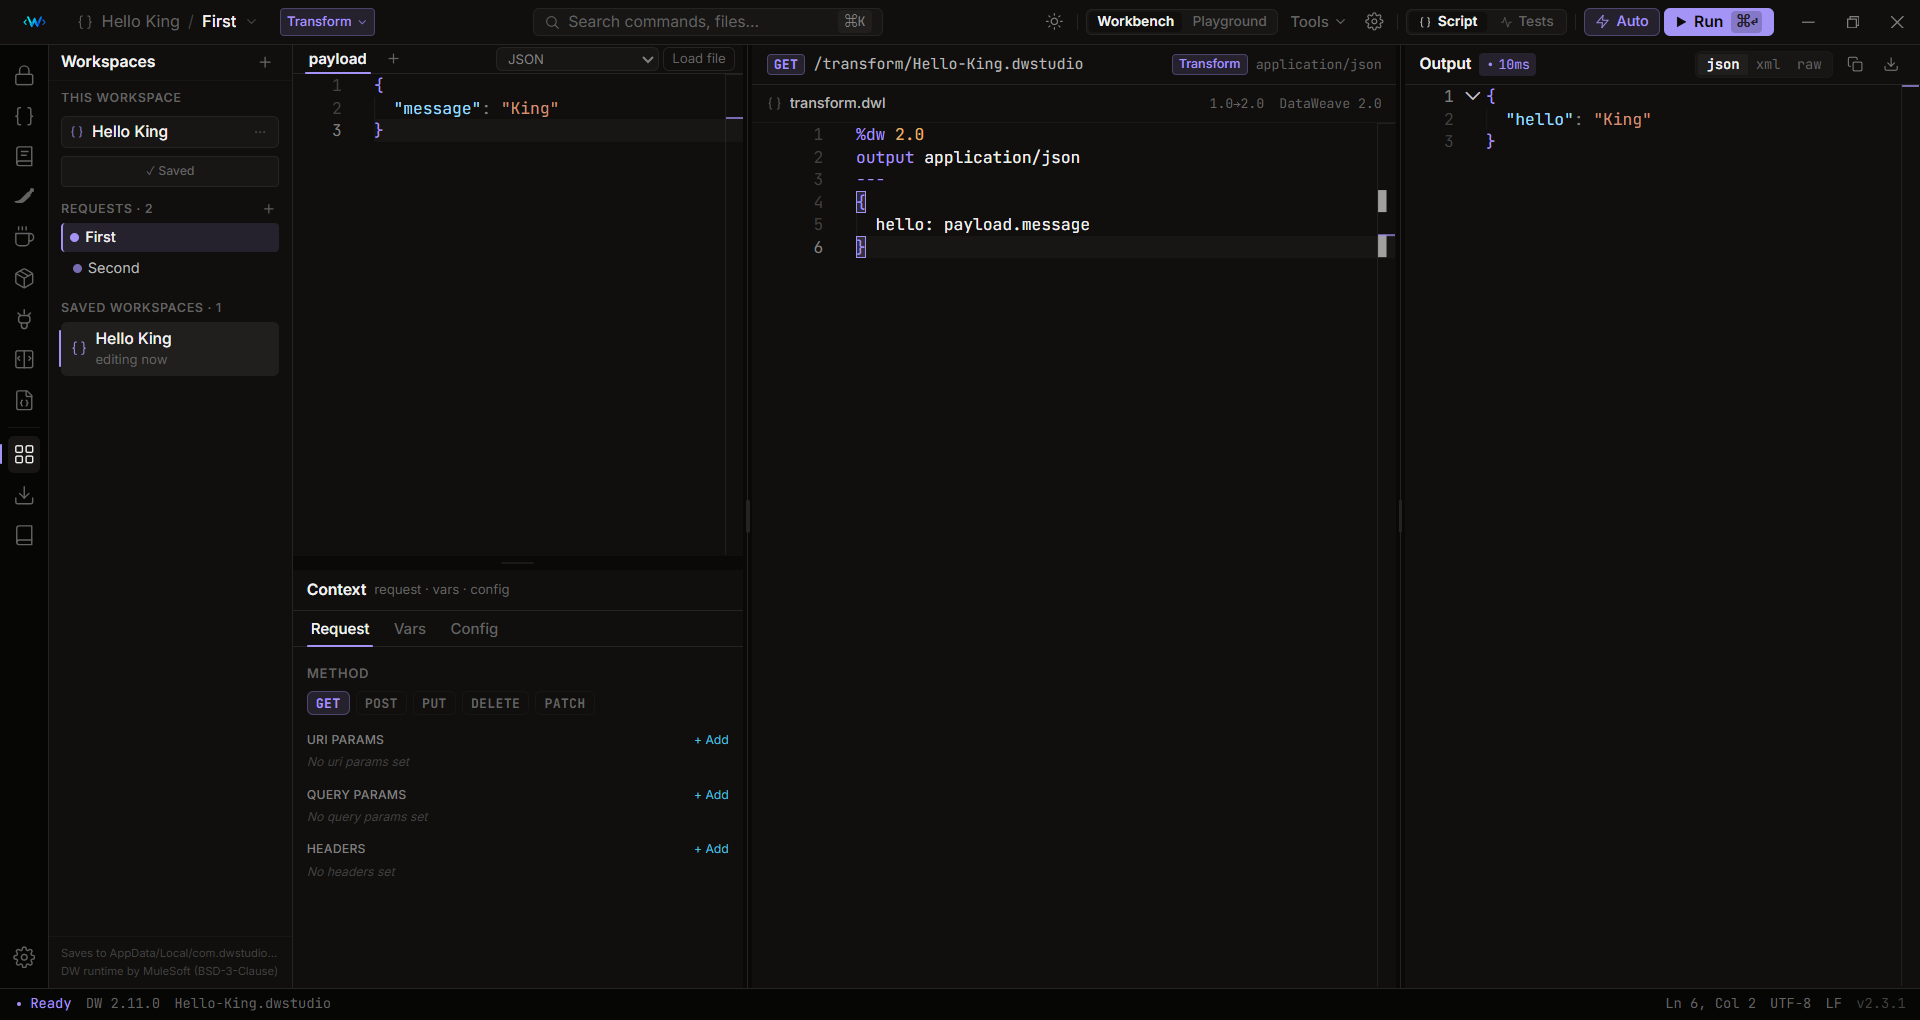
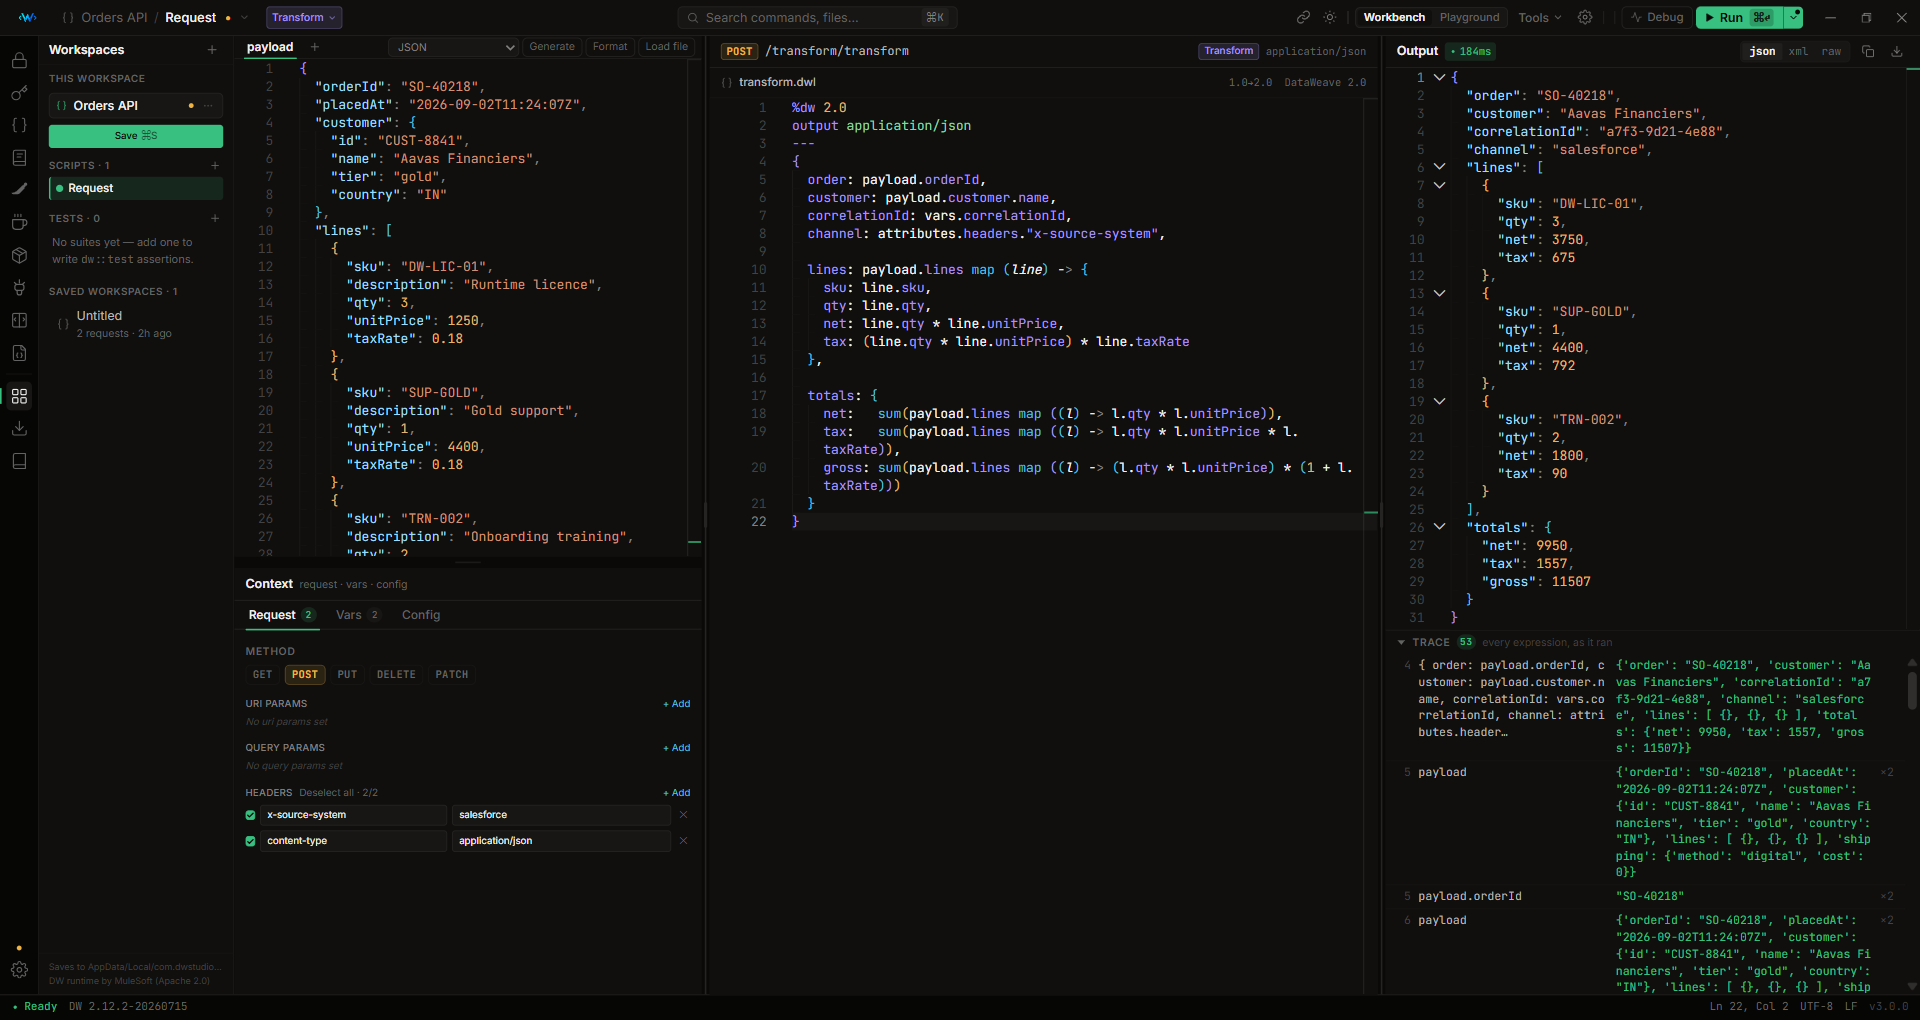
Reshoot every screenshot against the app as it is now
All 19 shots dated from May and June, so the READMEs and both websites were
still showing a UI two releases old — the old top bar, no status bar, and not
one picture of anything 3.0 added.

Sixteen retaken at the same 1920x1020 as before, driven through the real app
rather than staged: an order payload with vars and headers actually set, the
script reading them, output rendered and the Trace panel showing all 53
expressions. Three new ones for the features that had none: the debugger paused
on a breakpoint with real values in the variables panel, a dw::test suite with
five assertions passing, and a config file with two secrets encrypted and the
other four deliberately left alone.

The autocomplete shot is cropped rather than full width. The suggestion list
only appears mid-expression, which by definition does not compile, so the full
frame carried a red compile error beside it — true, but a poor first image on a
Marketplace page. Cropping to the payload and script panes keeps what the shot
is actually about.

vscode_extension.png is the one left untouched: it needs a real VS Code window,
which this could not drive.

diff --git a/README.md b/README.md
@@ -23,6 +23,15 @@ Built with Tauri v2 (Rust) + React + TypeScript + Monaco Editor. Ships with a bu
 ![Script editor with 361-function autocomplete](docs/screenshots/auto_suggestion_on_typing_monaco_dark_mode.png)
 *Monaco editor with DataWeave syntax highlighting, 361-function autocomplete with signature hints, and live output*
 
+![Step debugger paused on a breakpoint](docs/screenshots/debugger_paused_dark_mode.png)
+*Step debugger — click the gutter to set a breakpoint, then read the call stack, every variable in scope, and evaluate any expression against the paused frame*
+
+![dw::test suite, five assertions passing](docs/screenshots/tests_suite_dark_mode.png)
+*Real `dw::test` suites — named assertions run against the bundled engine, with the engine's own failure messages and per-test timings*
+
+![Config encryption — two secrets encrypted, the rest untouched](docs/screenshots/config_encryption_dark_mode.png)
+*Config encryption — encrypt every secret in a YAML or .properties file at once; values already written as `![…]` are left alone and comments survive*
+
 ![Message Flow Designer — visual drag-and-drop canvas](docs/screenshots/message_flow_dark_mode.png)
 *Message Flow Designer — chain Set Payload, Transform, HTTP, Salesforce, and Database connectors with step-through debugging*
 

diff --git a/vscode-extension/README.md b/vscode-extension/README.md
@@ -58,6 +58,10 @@ Paste an `application.yaml` and a `secure-config.yaml` with `![encrypted]` value
 
 Autocomplete over all 361 functions with signature hints, typed against your actual payload's shape. Hover docs, go-to-definition, find-references, rename, outline, folding. Live diagnostics with fixes you can apply. Warnings when a script hashes with MD5 or leaves a `log()` behind. Formatting via the engine's own formatter, snippets, a searchable function reference, and DW 1.0 → 2.0 migration with a side-by-side diff.
 
+![Step debugger paused on a breakpoint](https://raw.githubusercontent.com/Ashutosh-Vijay/DataWeave-Studio/main/docs/screenshots/debugger_paused_dark_mode.png)
+
+![dw::test suite, five assertions passing](https://raw.githubusercontent.com/Ashutosh-Vijay/DataWeave-Studio/main/docs/screenshots/tests_suite_dark_mode.png)
+
 ![Message Flow designer with step-through debugging](https://raw.githubusercontent.com/Ashutosh-Vijay/DataWeave-Studio/main/docs/screenshots/message_flow_dark_mode.png)
 
 ## Give your AI assistant a real DataWeave engine
